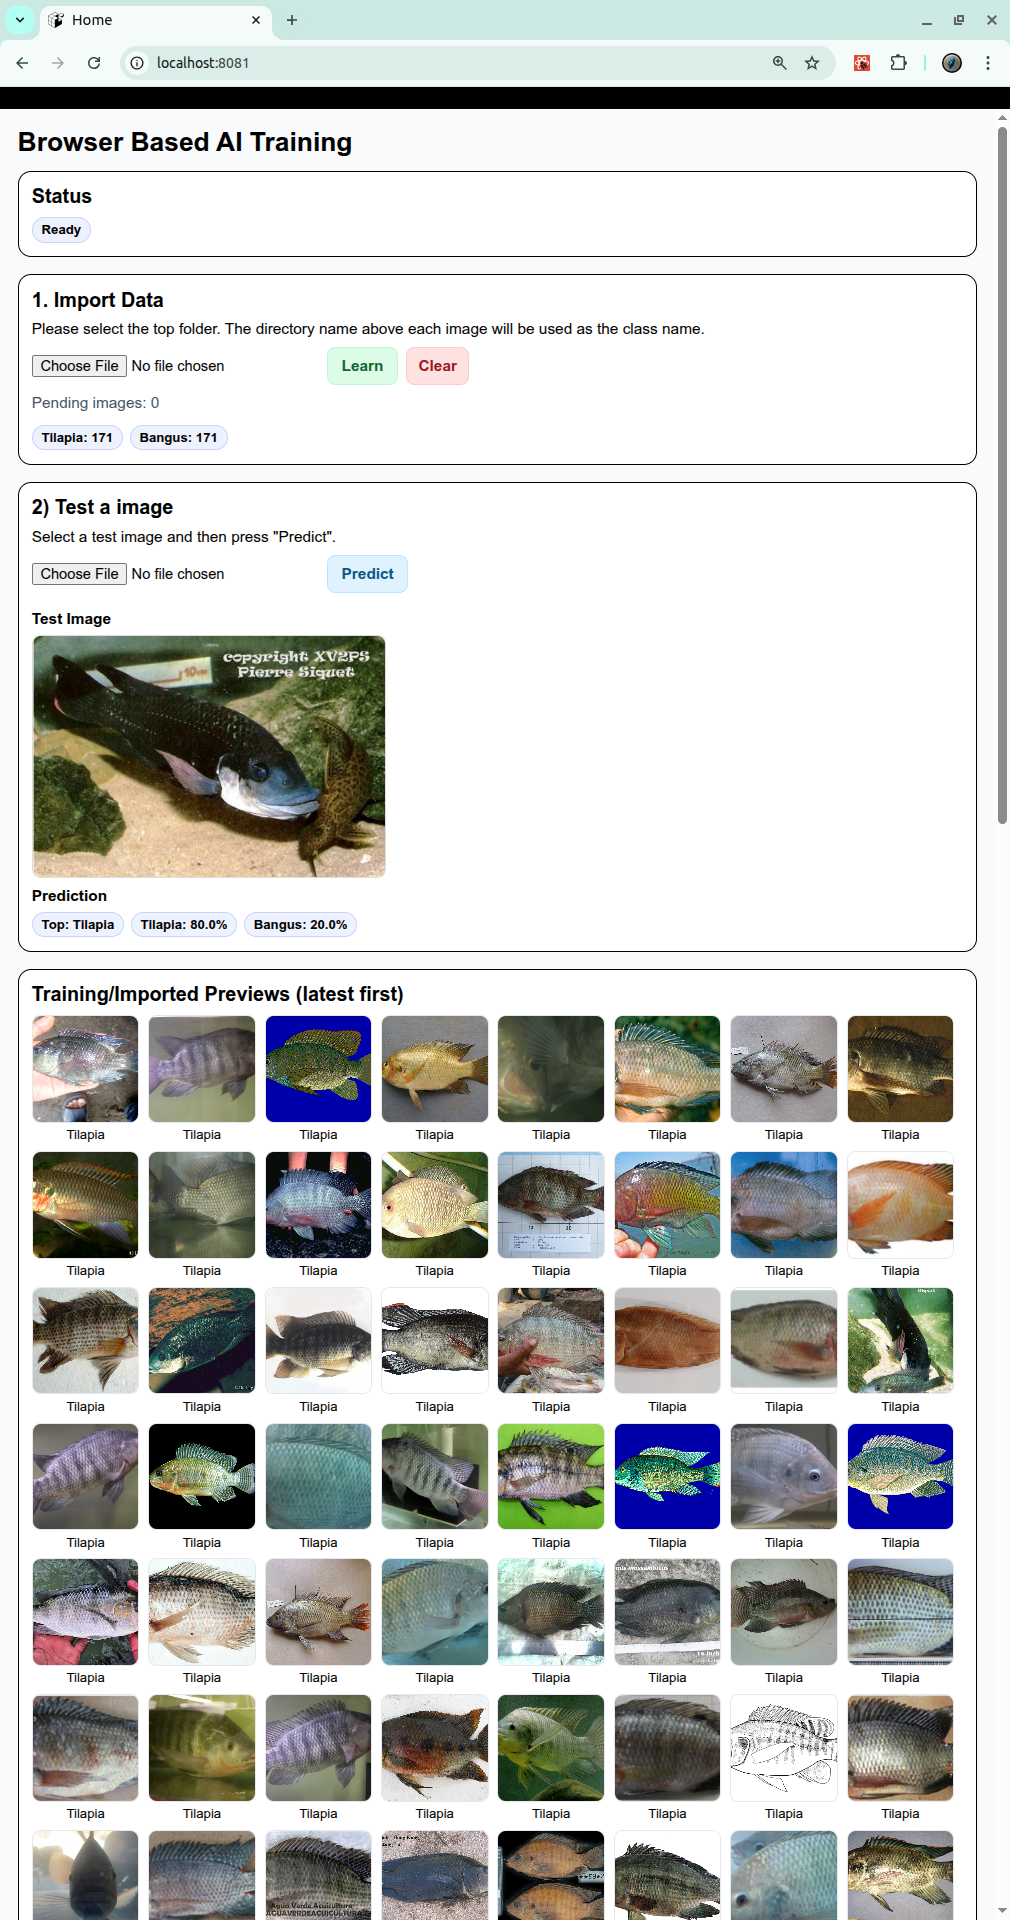
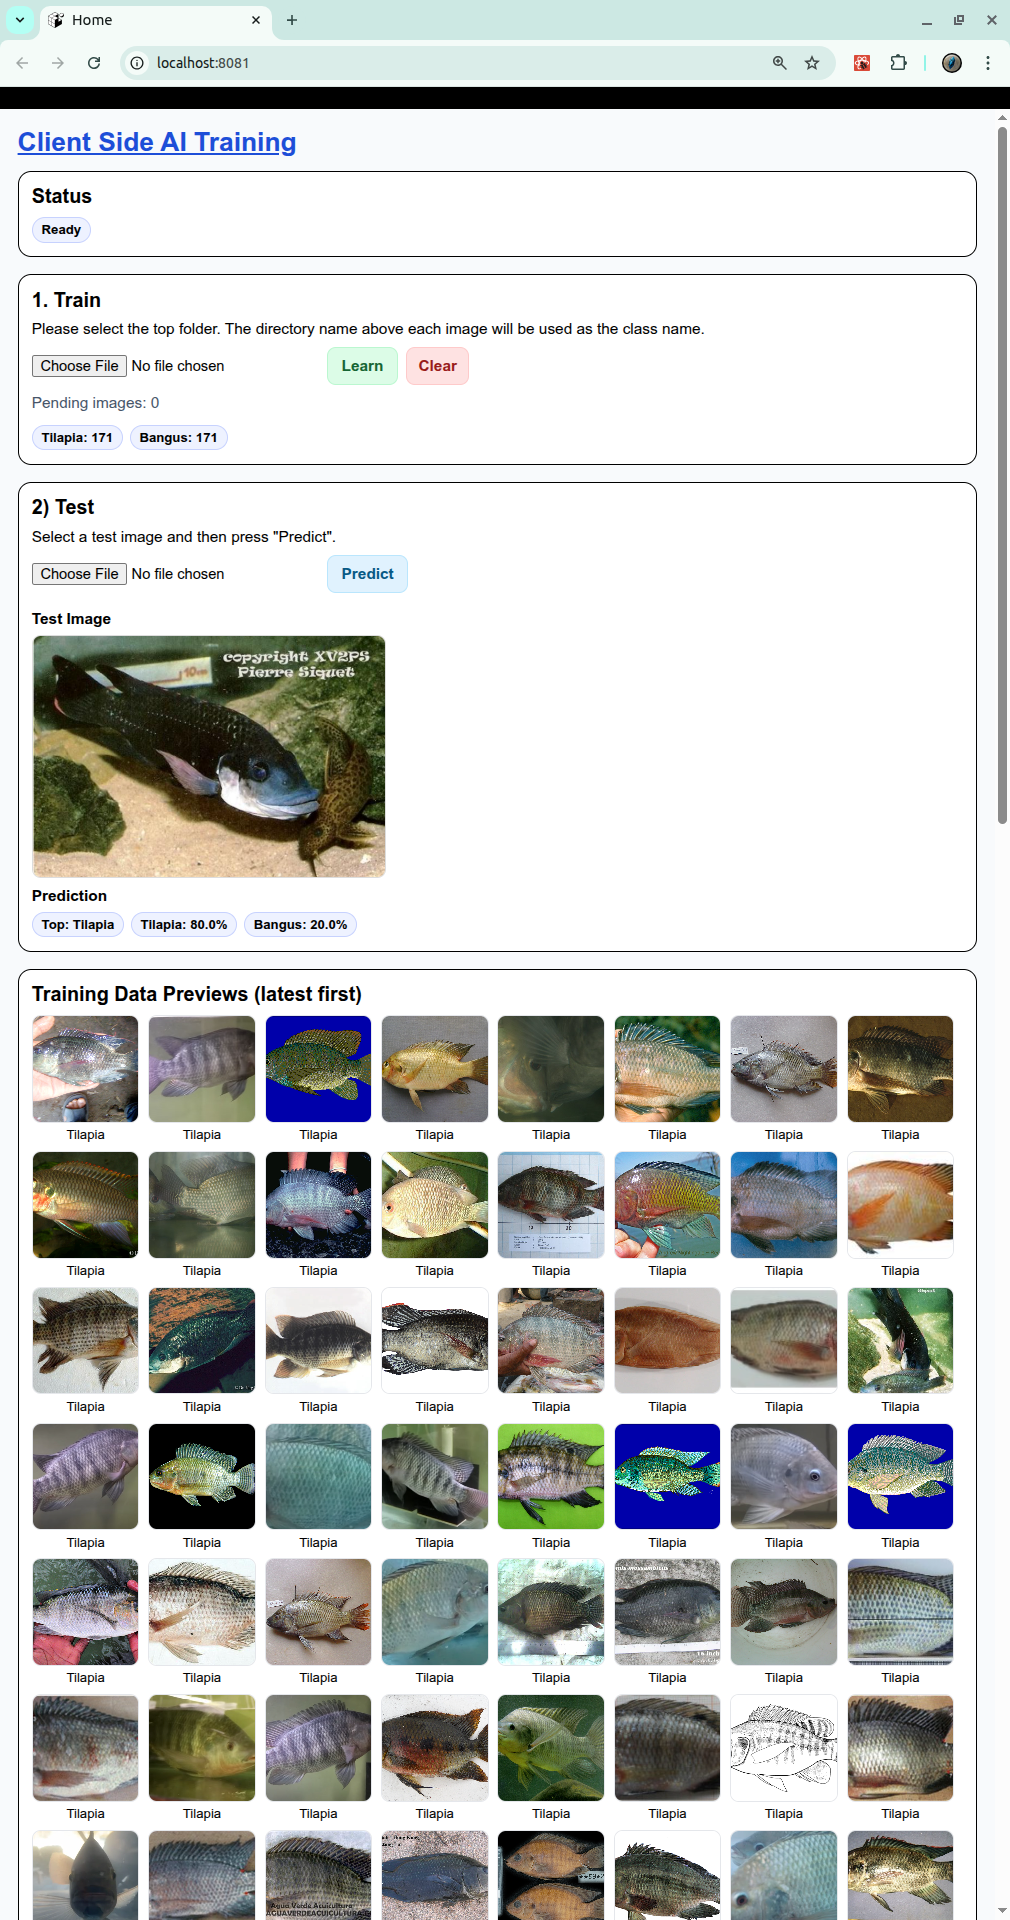
fix/pic_folder

Changed region(s): [[0.0, 0.0625, 0.3376, 0.0938], [0.1228, 0.5, 0.399, 0.5312], [0.1228, 0.25, 0.1535, 0.2812]]

diff --git a/frontend/app/screens/HomeScreen.tsx b/frontend/app/screens/HomeScreen.tsx
@@ -206,15 +206,14 @@ export default function HomeScreen() {
   // -------------------------------------------------------------------------
   const FilePickFolder = () => {
     if (!isWeb) return null as any;
-    return (
+      return (
       // @ts-ignore – directory upload attributes (supported on Chromium-based browsers & Safari)
       <input
         type="file"
-        /* Non-standard directory selection (Chromium/Safari/Firefox) */
-        webkitdirectory
-        mozdirectory
-        directory
-        style={{ marginRight: 8, marginTop: 4, marginBottom: 4 }}
+        webkitdirectory="true"
+        mozdirectory="true"
+        directory="true"
+        style={{ marginRight: 8, marginVertical: 4 }}
         onChange={(e: any) => onAddFolder(e.target.files as FileList)}
       />
     );
@@ -276,7 +275,7 @@ export default function HomeScreen() {
         </View>
       </View>
 
-      {/* Step 1: Import folder */}
+      {/* Step 1: Import train data */}
       <View style={{ marginBottom: 16, padding: 12, borderRadius: 12, borderWidth: 1, backgroundColor: "#fff" }}>
         <SectionTitle>1. Train </SectionTitle>
         <Text style={{ marginBottom: 8 }}>
